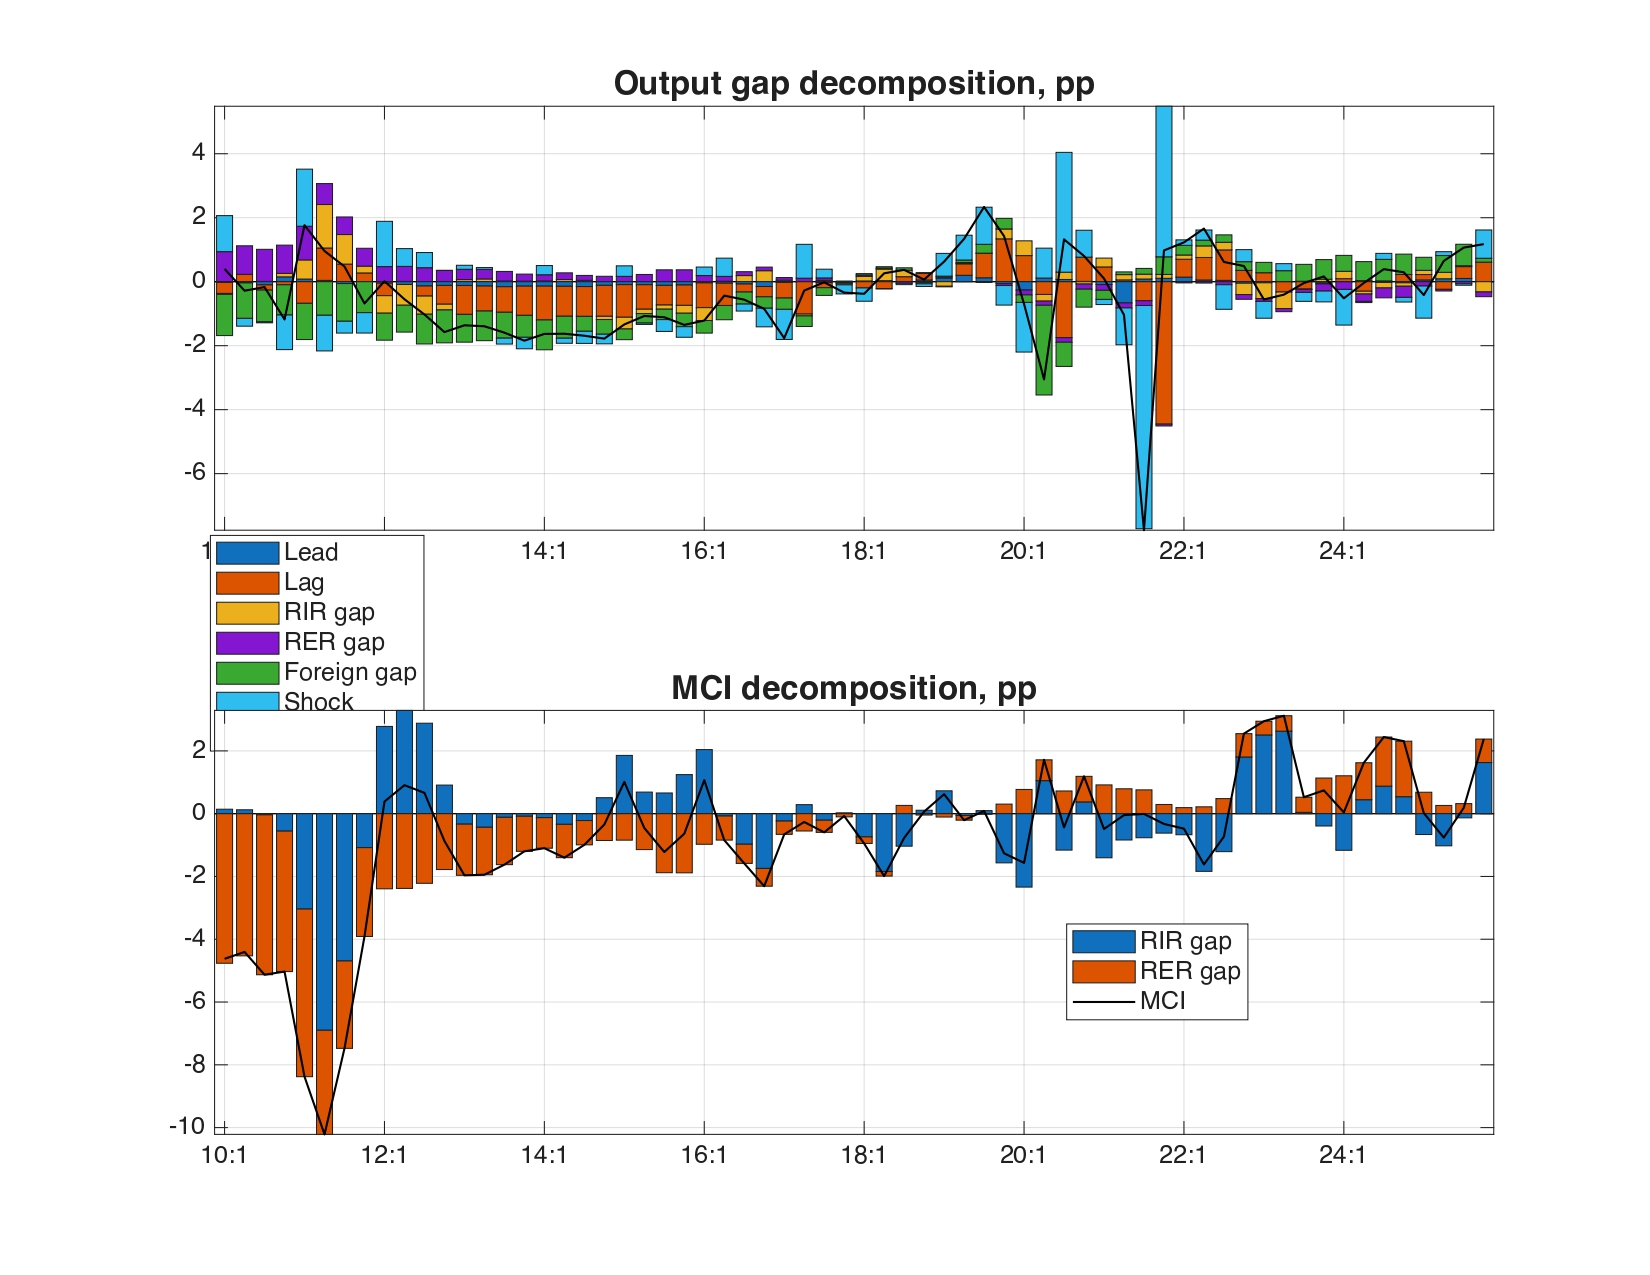
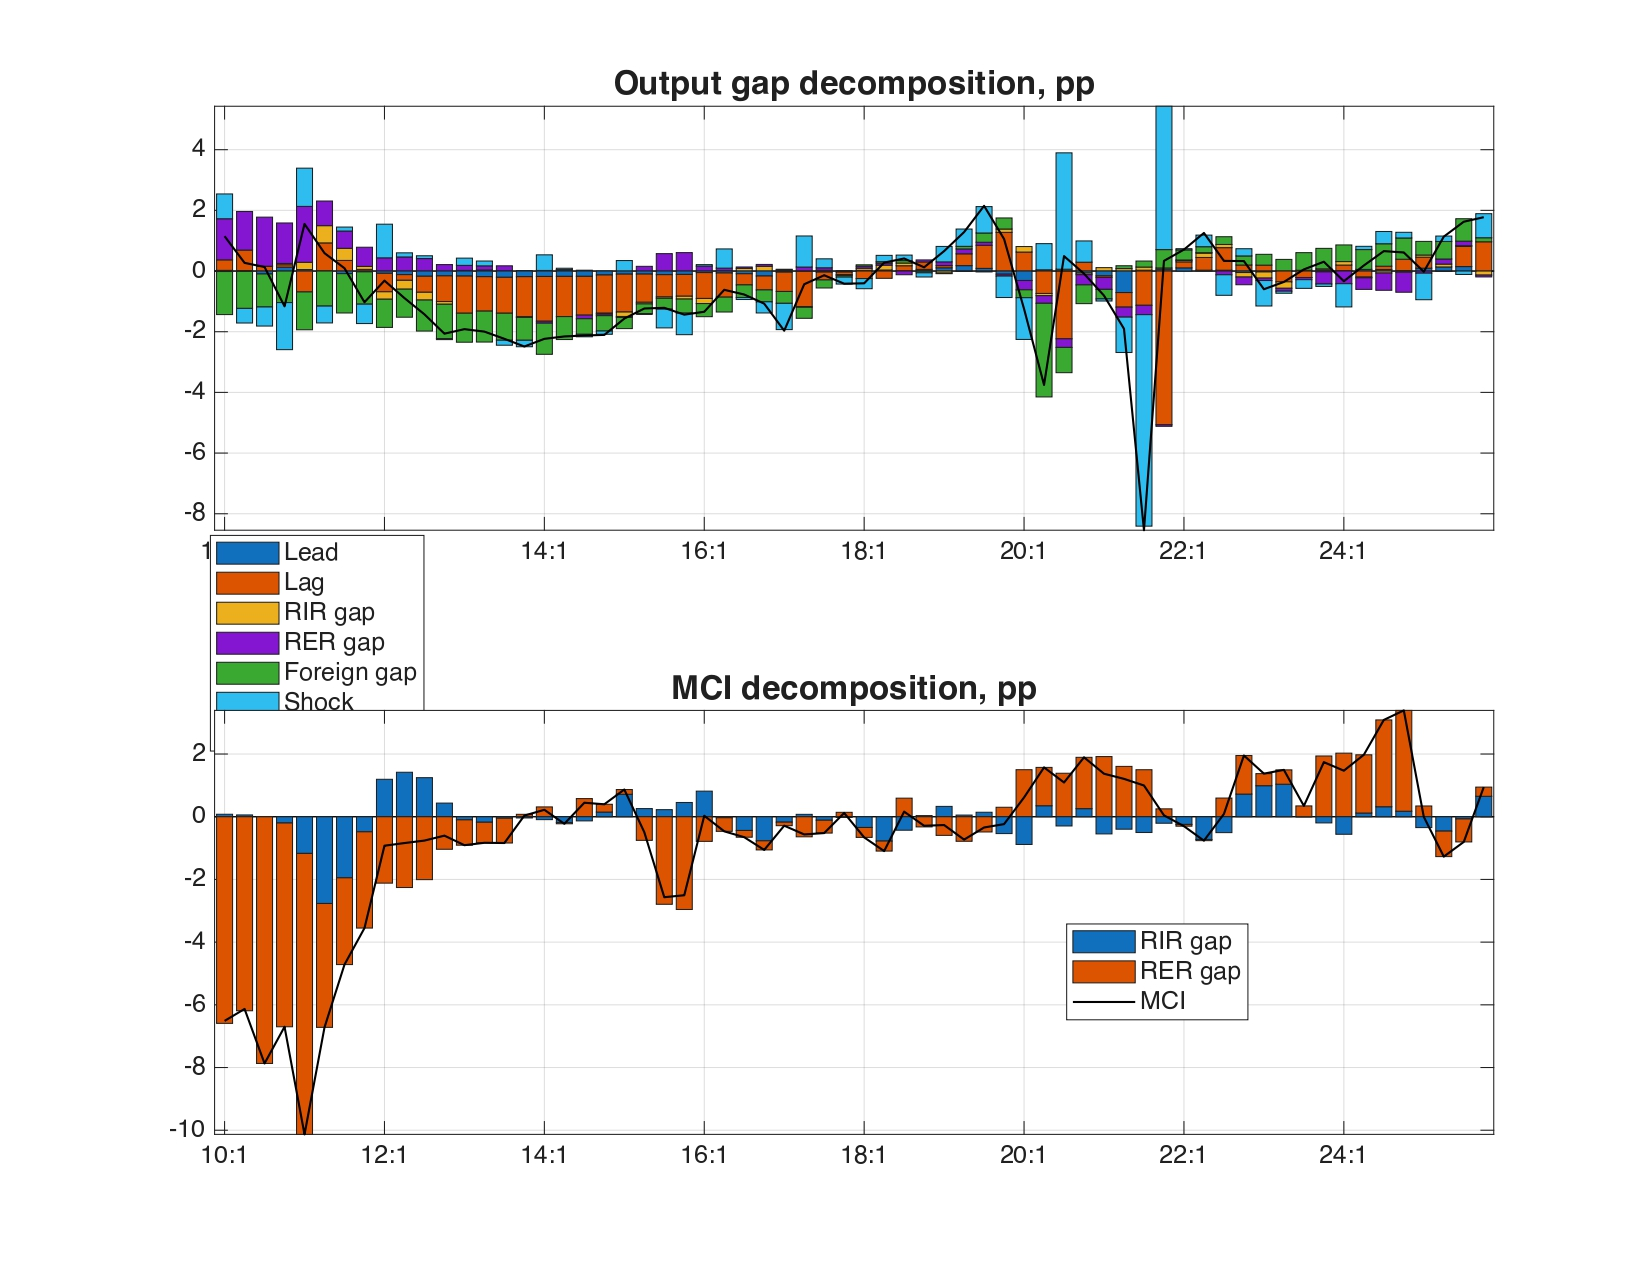
update calibration

diff --git a/_posts/2026-03-24-vietnam-imf-qpm.md b/_posts/2026-03-24-vietnam-imf-qpm.md
@@ -113,46 +113,46 @@ Trends must satisfy two equilibrium conditions:
 
 | Parameter | Typical range | Posterior mode | Interpretation |
 | --- | --- | --- | --- |
-| $b_0$ | 0.1–0.9 | 0.085 | Output gap lead |
-| $b_1$ | 0.1–0.9 | 0.573 | Output gap persistence |
-| $b_2$ | 0.1–0.5 | 0.197 | Policy (MCI) pass-through to demand |
-| $b_3$ | 0.1–0.5 | 0.311 | External demand pass-through to demand |
-| $b_4$ | 0.3–0.8 | 0.729 | Weight of interest in MCI |
+| $b_0$ | 0.1–0.9 | 0.083 | Output gap lead |
+| $b_1$ | 0.1–0.9 | 0.593 | Output gap persistence |
+| $b_2$ | 0.1–0.5 | 0.205 | Policy (MCI) pass-through to demand |
+| $b_3$ | 0.1–0.5 | 0.342 | External demand pass-through to demand |
+| $b_4$ | 0.3–0.8 | 0.300 | Weight of interest in MCI |
 | $a_1$ | 0.4–0.9 | 0.419 | Inflation inertia |
-| $a_2$ | 0.1–0.5 | 0.203 | Cost pass-through to prices |
-| $a_3$ | 0.6–0.9 | 0.900 | Weight of domestic costs in RMC |
+| $a_2$ | 0.1–0.5 | 0.109 | Cost pass-through to prices |
+| $a_3$ | 0.6–0.9 | 0.696 | Weight of domestic costs in RMC |
 | $g_1$ | 0.0–0.8 | 0.800 | Interest rate smoothing ("wait-and-see" policy) |
-| $g_2$ | 0.1–Inf | 0.463 | Weight of inflation in policy decision |
-| $g_3$ | 0.1–Inf | 0.397 | Weight of output gap in policy decision |
-| $e_1$ | 0.4–0.9 | 0.921 | FX backward-looking |
+| $g_2$ | 0.1–Inf | 0.427 | Weight of inflation in policy decision |
+| $g_3$ | 0.1–Inf | 0.392 | Weight of output gap in policy decision |
+| $e_1$ | 0.4–0.9 | 0.925 | FX backward-looking |
 
 ## Interpretation of Estimation Results
 
 ### Aggregate Demand (IS Curve)
 
-The estimated **output gap persistence** ($b_1 = 0.573$) is moderate, indicating that business cycles in Vietnam are not excessively prolonged but do carry meaningful inertia. The **forward-looking component** ($b_0 = 0.085$) is small but statistically significant at the 10% level ($p = 0.093$), suggesting agents form some expectations about future output conditions, though backward-looking dynamics dominate.
+The estimated **output gap persistence** ($b_1 = 0.593$) is moderate, indicating that business cycles in Vietnam are not excessively prolonged but do carry meaningful inertia. The **forward-looking component** ($b_0 = 0.083$) is small and only marginally significant ($p = 0.100$), suggesting agents form some expectations about future output conditions, though backward-looking dynamics dominate.
 
-The **MCI pass-through** ($b_2 = 0.197$) is relatively low, consistent with limited financial market depth and weaker-than-average monetary policy transmission typical of developing economies. The high weight of **interest rate in MCI** ($b_4 = 0.729$) implies that the interest rate channel dominates over the exchange rate channel in determining monetary conditions — the opposite of what is often assumed for highly open economies.
+The **MCI pass-through** ($b_2 = 0.205$) is relatively low, consistent with limited financial market depth and weaker-than-average monetary policy transmission typical of developing economies. The low weight of **interest rate in MCI** ($b_4 = 0.300$) implies that the **exchange rate channel** (weight 0.7) dominates over the interest rate channel in determining monetary conditions — a hallmark of a highly open, trade-dependent economy such as Vietnam, where exchange rate movements transmit monetary conditions more powerfully than changes in the policy rate.
 
-The **external demand spillover** ($b_3 = 0.311$) is significant and moderate, reflecting Vietnam's substantial trade openness; foreign demand shocks pass through to domestic output at roughly one-third strength.
+The **external demand spillover** ($b_3 = 0.342$) is significant and moderate, reflecting Vietnam's substantial trade openness; foreign demand shocks pass through to domestic output at roughly one-third strength.
 
 ### Inflation (Phillips Curve)
 
 The **inflation inertia** ($a_1 = 0.419$) is at the lower end of the typical range, suggesting that roughly 58% of firms are forward-looking in price-setting. This is a relatively favorable finding — it implies that inflation expectations are not heavily anchored to the past, reducing the output sacrifice needed to bring inflation back to target following a cost-push shock.
 
-The **cost pass-through** ($a_2 = 0.203$) indicates meaningful price rigidity: only about 20% of marginal cost increases translate to inflation each quarter, consistent with the Calvo pricing mechanism. The **domestic cost weight** ($a_3 = 0.900$, at its upper bound) implies that domestic demand conditions — rather than imported costs — are the dominant driver of marginal cost pressures. This finding may reflect the large share of non-tradables in Vietnam's CPI basket.
+The **cost pass-through** ($a_2 = 0.109$) indicates substantial price rigidity: only about 11% of marginal cost increases translate to inflation each quarter, consistent with a high degree of price stickiness under the Calvo pricing mechanism. The **domestic cost weight** ($a_3 = 0.696$) implies that domestic demand conditions account for roughly 70% of real marginal cost pressures, with imported costs (via the real exchange rate gap) contributing the remaining 30%. This more balanced split — compared to earlier estimates — is consistent with an open economy in which import price movements play a meaningful role in shaping domestic inflation dynamics.
 
 ### Exchange Rate (UIP)
 
-The **backward-looking FX parameter** ($e_1 = 0.921$) is very high — among the highest plausible values — indicating that exchange rate expectations are strongly extrapolative. Only about 8% of the expected exchange rate is determined by forward-looking UIP arbitrage; the remaining 92% reflects inertia from past values. This is consistent with Vietnam's managed exchange rate regime, where the State Bank of Vietnam limits sharp movements and market participants rationally expect continuity.
+The **backward-looking FX parameter** ($e_1 = 0.925$) is very high — among the highest plausible values — indicating that exchange rate expectations are strongly extrapolative. Only about 7.5% of the expected exchange rate is determined by forward-looking UIP arbitrage; the remaining 92.5% reflects inertia from past values. This is consistent with Vietnam's managed exchange rate regime, where the State Bank of Vietnam limits sharp movements and market participants rationally expect continuity.
 
 ### Monetary Policy Rule
 
 The **interest rate smoothing** ($g_1 = 0.800$, at its upper bound) confirms a strong "wait-and-see" bias in Vietnamese monetary policy. The central bank adjusts rates gradually rather than responding sharply to new information.
 
-The **inflation response coefficient** ($g_2 = 0.463$) The low point estimate nonetheless reflects that the SBV has historically been cautious in raising rates in response to inflationary pressure.
+The **inflation response coefficient** ($g_2 = 0.427$) remains below unity, reflecting that the SBV has historically been cautious in raising rates in response to inflationary pressure — the Taylor principle is not strictly satisfied in this estimate.
 
-The **output gap weight** ($g_3 = 0.397$) is comparable to the inflation weight, suggesting the SBV places significant weight on growth stabilization alongside inflation, consistent with its dual mandate orientation.
+The **output gap weight** ($g_3 = 0.392$) is comparable to the inflation weight, suggesting the SBV places significant weight on growth stabilization alongside inflation, consistent with its dual mandate orientation.
 
 ### Trend Persistence
 
@@ -170,7 +170,7 @@ The first figure decomposes the **output gap** (top panel) and the **monetary co
 
 **Output gap**: The economy ran a mild positive gap through most of 2015–2019, consistent with Vietnam's strong pre-pandemic growth. The sharpest feature is the large **negative output gap around 2021**, driven by the Covid-19 shock — the bar decomposition shows this was dominated by the residual shock term rather than policy tightening. Recovery was rapid, with the gap returning close to zero by 2022–2023. The forward-looking (lead) component is small throughout, consistent with the low estimated $b_0$, while the lagged component provides the dominant inertial drag each quarter.
 
-**MCI decomposition**: The MCI reflects the combined stance of the real interest rate gap (RIR gap) and real exchange rate gap (RER gap). During the Covid period, the exchange rate channel (orange bars) dominated — a real depreciation of the dong eased monetary conditions and partially offset the demand contraction. The interest rate channel (blue bars) became more prominent from 2022 onward as the SBV began tightening, confirming the estimated high weight of the interest rate in MCI ($b_4 = 0.729$).
+**MCI decomposition**: The MCI reflects the combined stance of the real interest rate gap (RIR gap) and real exchange rate gap (RER gap). The exchange rate channel (orange bars) dominates throughout the sample, consistent with the low estimated weight of the interest rate in MCI ($b_4 = 0.300$), which assigns a 70% weight to the exchange rate channel. During the Covid period, a real depreciation of the dong eased monetary conditions and partially offset the demand contraction. The interest rate channel (blue bars) became more visible from 2022 onward as the SBV began tightening, but remained the secondary driver.
 
 ### Marginal Cost and Inflation Decomposition
 
@@ -178,7 +178,7 @@ The second figure decomposes **real marginal cost** (top panel) and **inflation*
 
 ![Trends](https://raw.githubusercontent.com/thanhqtran/thanhqtran.github.io/cd5c2fce319b540c0afe4e101527bd725dce1e82/_posts/_assets/tp6e4a1cc6_7868_485a_8941_aed4c2043db6_page-0001.jpg)
 
-**Marginal cost**: Real marginal cost is driven almost entirely by the output gap component (consistent with $a_3 = 0.900$), with the RER gap playing a minor secondary role. Cost pressures were negative during 2020–2021 (slack conditions), then turned sharply positive in 2022 as the output gap closed and global commodity prices rose.
+**Marginal cost**: Real marginal cost is driven primarily by the output gap component, but with a meaningful contribution from the real exchange rate gap (consistent with $a_3 = 0.696$, which assigns approximately 30% weight to imported cost pressures). Cost pressures were negative during 2020–2021 (slack conditions), then turned sharply positive in 2022 as the output gap closed and global commodity prices rose — with both domestic and imported cost channels contributing to the surge.
 
 **Inflation decomposition**: The post-Covid inflation surge (~2022) is attributed primarily to a large **cost-push shock** (residual term), rather than to demand overheating or forward inflation expectations alone. Backward-looking persistence (inertia, $a_1 = 0.419$) amplified and prolonged the initial shock. Forward-looking expectations contributed a stabilizing pull toward target once the SBV signaled its inflation-fighting stance. By 2024–2025, all contributions are small and inflation has returned close to the target, consistent with the model's relatively low inertia estimate.
 
